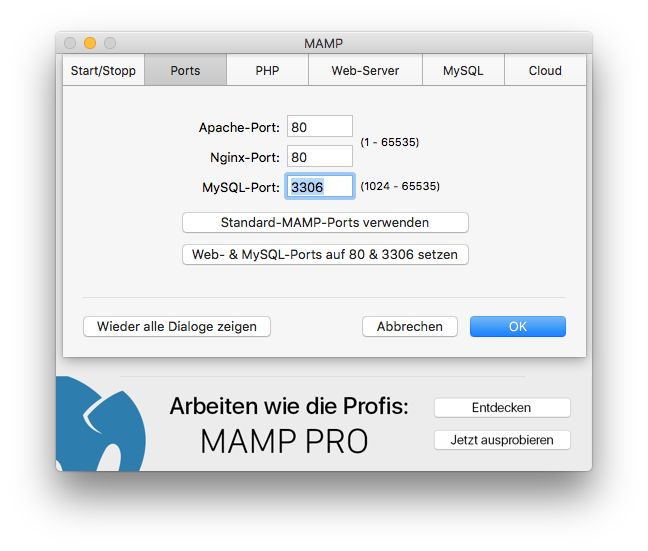
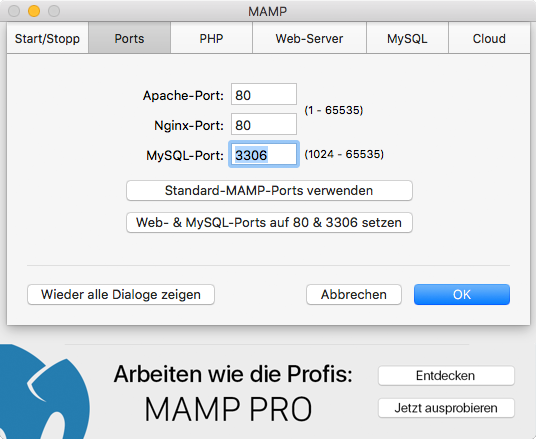
docs: remove shadows from images

diff --git a/public/docs/local_dev_environment.php b/public/docs/local_dev_environment.php
@@ -27,7 +27,7 @@
                     <!-- oder die URL <code class="break">http://YOUR_DOMAIN/ModifiedModuleLoaderClient/?action=createModule&vendorPrefix=mc&vendorName=mycompany&moduleName=my-first-module</code> aufrufen, wenn du im MMLC eingeloggt bist. !-->
             </div>
 
-            <p>Für das Erstellen von Modulen solltest du dir eine lokale Entwicklungsumgebung einrichten, das bedeutet, dass du erst einmal keinen externen Server benötigst, auf dem du ein modified eCommerce Shop installieren musst. Eine lokale Entwicklungsumgebung hat viele Vorteile und erleichtert dir deutlich die Arbeit. (TODO: Einige Gründe aufzählen, wieso eine lokle Entwicklungsumgebung besser ist.)
+            <p>Für das Erstellen von Modulen solltest du dir eine lokale Entwicklungsumgebung einrichten, das bedeutet, dass du erst einmal keinen externen Server benötigst, auf dem du ein modified eCommerce Shop installieren musst. Eine lokale Entwicklungsumgebung hat viele Vorteile und erleichtert dir deutlich die Arbeit. (TODO: Einige Gründe aufzählen, wieso eine lokale Entwicklungsumgebung besser ist.)
 
             <h4>Lokale Entwicklungsumgebung unter Mac (MAMP)</h4>
 
@@ -41,7 +41,7 @@
 
             <!-- To do: Schatten im Bild entfernen -->
             <!-- Anschließend ersetzen: <img src="/images/MAMP_Ports.png" class="imagePreview"> -->
-            <img src="/images/MAMP_Ports.png">
+            <img src="/images/MAMP_Ports.png" class="imagePreview">
 
             <p>Unter dem Tab „PHP“ solltest du die neuste Version von PHP auswählen, die dir zur Auswahl steht. Hier solltest du mindestens PHP 7.2 auswählen.</p>
 

diff --git a/public/docs/tutorial.php b/public/docs/tutorial.php
@@ -212,7 +212,7 @@
 
                 <p>User System Modul benötigt noch eine Sprachdatei, damit der User etwas angezeigt bekommt. Die Sprachdatei muss später in dem Verzeichnis <code>SHOP_ROOT/lang/german/modules/system</code> liegen. Damit der MMLC diese Datei in dieses Verzeichnis kopiert, müssen wir das Verzeichnis in <code>.../new_files</code> anlegen. Wir legen also die Verzeichnisstruktur <code>.../new_files/lang/german/modules/system/</code> an.</p>
 
-                <img class="border" src="/images/tutorial_070.png">
+                <img src="/images/tutorial_070.png" class="imagePreview">
 
                 <p>Die Sprachdatei bennen wir wieder nach der HookFileName Convention <code>mc_my_first_module.php</code> und speichern diese in das eben erstellte Verzeichnis <code>.../new_files/lang/german/modules/system/</code>. Jetzt sollte deine Verzeichnisstruktur folgendermaßen aussehen:</p>
 
